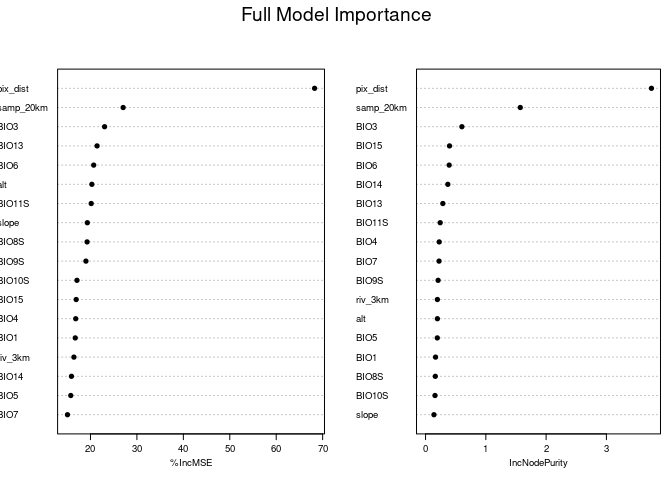
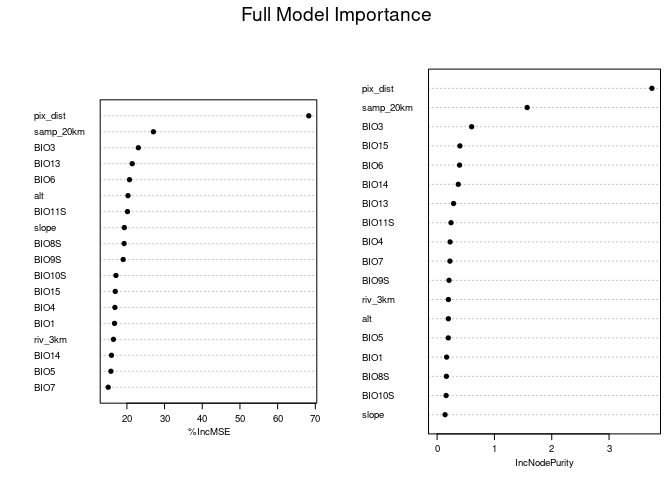
knit

diff --git a/scripts/05_RFmodel_full.md b/scripts/05_RFmodel_full.md
@@ -5,7 +5,6 @@ Norah Saarman
 
 - [Setup](#setup)
 - [Inputs](#inputs)
-- [Outputs](#outputs)
 - [1. Prepare the data](#1-prepare-the-data)
 - [2. Build full Random Forest model](#2-build-full-random-forest-model)
 - [2. Prune variables?](#2-prune-variables)
@@ -67,12 +66,13 @@ clusterExport(cl, "get_mode")
 
 - `../input/Gff_cse_envCostPaths.csv` - Combined CSE table with
   coordinates (long1, lat1, long2, lat2), pix_dist = geographic distance
-  in sum of pixels, and mean, median, mode of each Env parameter
-
-# Outputs
-
-- Full RF model output
-- Projection of full RF model
+  in sum of pixels, and mean, median, mode of each Env parameter  
+  \# Outputs  
+- `../results_dir/rf_mean18_tuned.rds` - Full RF model outpu, readRDS()
+  to load  
+- `../results_dir/predicted_CSEdistance.tif` - Projection of full RF
+  model, with pix_dist and samp_20km nuetralized by using uniform layers
+  in projection
 
 # 1. Prepare the data
 
@@ -410,6 +410,17 @@ rf_mean18_tuned <- tuneRF(
 
 ![](05_RFmodel_full_files/figure-gfm/tune-1.png)<!-- -->
 
+``` r
+# Save the tuned random forest model to disk
+saveRDS(rf_mean18_tuned, file = file.path(results_dir, "rf_mean18_tuned.rds"))
+
+# Preserve as-is for projection
+rf_final <- rf_mean18_tuned
+```
+
+FYI: Later, to load the model back into R:
+`rf_mean18_tuned <- readRDS(file.path(results_dir, "rf_mean18_tuned.rds"))`
+
 ## Compare full and full tuned models (top 18 mean-only predictors)
 
 ``` r
@@ -453,6 +464,11 @@ data.frame(
     ## 2  Tuned (mtry =  6 ) 0.001176689 0.8622539
 
 ``` r
+# pad names to trick varImpPlot
+rownames(rf_mean18$importance) <- paste0("  ", rownames(rf_mean18$importance), "  ")
+rownames(rf_mean18_tuned$importance) <- paste0("  ", rownames(rf_mean18_tuned$importance), "  ")
+
+# plot with varImpPlot
 par(mar = c(5, 30, 2,2))  # bottom, left, top, right
 varImpPlot(rf_mean18, main = "Full Model Importance",cex = 0.6, pch = 19)
 ```
@@ -503,12 +519,10 @@ samp_uniform <- env[["samp_20km"]]
 values(samp_uniform) <- mean(rf_data$samp_20km_mean, na.rm = TRUE)
 env[["samp_20km"]] <- samp_uniform # Replace in raster stack
 
-prediction_raster <- predict(env, rf_mean18_tuned, type = "response")
+prediction_raster <- predict(env, rf_final, type = "response")
 
-# Write Raster to file
-writeRaster(prediction_raster,
-            file.path(data_dir, "processed", "predicted_CSEdistance.tif"),
-            format = "GTiff", overwrite = TRUE)
+# Write Prediction Raster to file
+writeRaster(prediction_raster, file.path(results_dir,"predicted_CSEdistance.tif"), format = "GTiff", overwrite = FALSE)
 ```
 
 ``` r

diff --git a/scripts/README.md b/scripts/README.md
@@ -6,19 +6,34 @@ Below is an annotated list of each major script/notebook in this project, in rec
    Installs all required R packages for the Uganda tsetse landscape‐genetics workflow.
 
 - **01_PCA_diversity_CSE.Rmd**  
-   Creates raster pixels for Lake Victoria, river kernel raster layer, geodist layer.
- 
+   Performs population genetic analysis and calculates connectivity (CSE) between site pairs.  
+   - Uses PCA, diversity stats, and CSE metrics.  
+   - Key packages: `adegenet`, `pegas`, `hierfstat`, `PopGenReport`, `poppr`, `ggplot2`, `sf`, `geosphere`, `igraph`, `vegan`, `ade4`, `viridis`.
+
 - **02_prepare_rasters.R**  
-   Creates raster pixels for Lake Victoria, river kernel raster layer, geodist layer.
-  
-- **03_RFModel_full.Rmd**  
-   Visually checks inputs. Builds the primary overall Random Forest connectivity model, explicitly including raster pixels for Lake Victoria.
+   Prepares environmental raster layers for Uganda.  
+   - Includes slope, elevation, river/lake kernel density, geographic distance.  
+   - Key packages: `raster`, `terra`, `sf`, `KernSmooth`, `maps`, `units`, `future.apply`.
 
-- **04_LOPOCV_setup.R**  
+- **03_least-cost-lakes.Rmd**  
+   Calculates least-cost paths between sites, avoiding lakes.  
+   - Builds transition matrices and outputs path shapefiles.  
+   - Key packages: `gdistance`, `raster`, `sp`, `sf`, `foreach`, `doParallel`, `future.apply`.
+
+- **04_extract_envvar.Rmd**  
+   Extracts mean, median, and mode values of environmental predictors along each least-cost path.  
+   - Also computes cumulative geographic distance (in pixels).  
+   - Key packages: `raster`, `sf`, `sp`, `doParallel`, `foreach`, `future.apply`.
+
+- **05_RFmodel_full.Rmd**  
+   Builds the main Random Forest model to predict genetic connectivity (CSE) using environmental predictors.  
+   - Key packages: `randomForest`, `raster`, `sf`, `viridis`, `doParallel`.
+
+- **06_LOPOCV_setup.R**  
    Prepares data and environment for the Leave-One-Point-Out Cross-Validation (LOPOCV) analysis.  
-   - You must run this setup notebook before running `LOPOCV.Rmd`.
+   - You must run this setup notebook before running central LOPOCV script
 
-- **05_LOPOCV.R**  
+- **07_LOPOCV.R**  
    Performs the LOPOCV test on the Random Forest model.  
    - Depends on the objects and files generated by `LOPOCV_Setup.Rmd`; will not run correctly otherwise.
 
